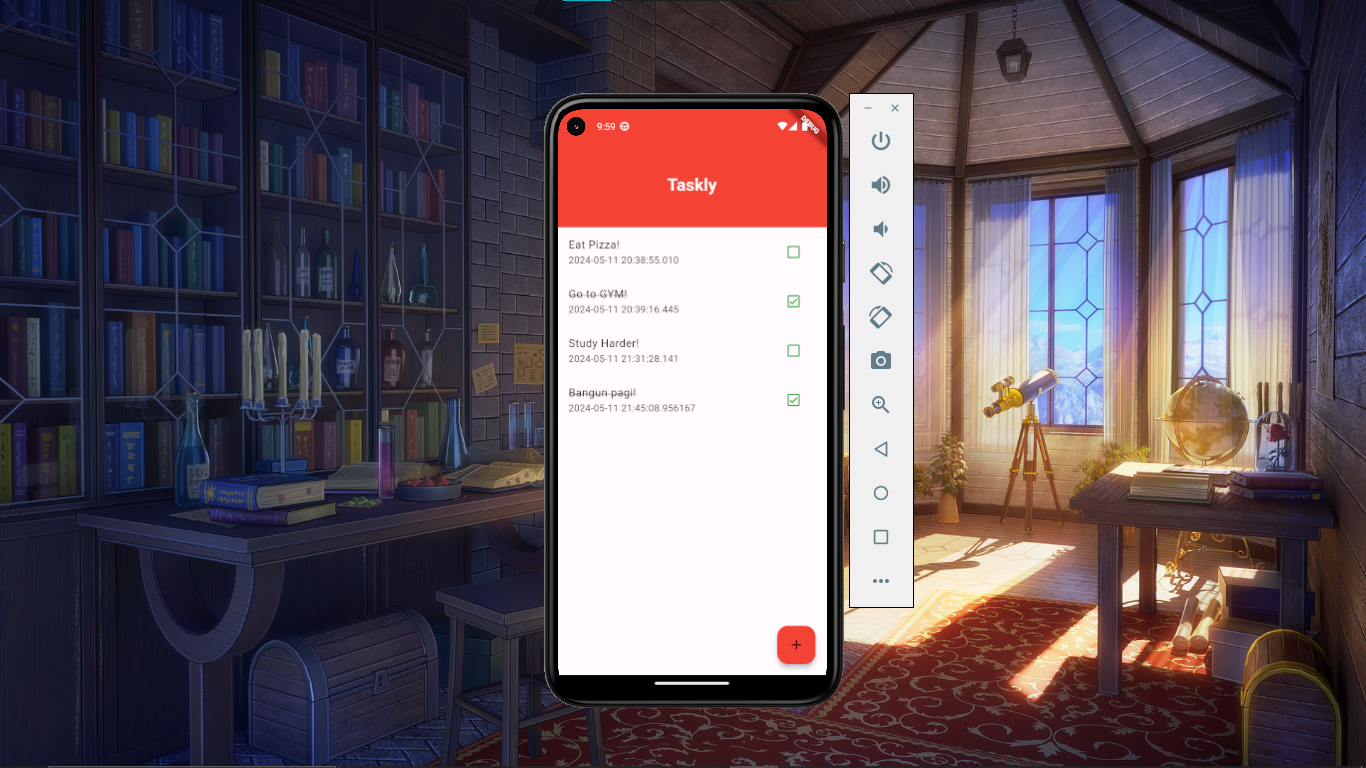
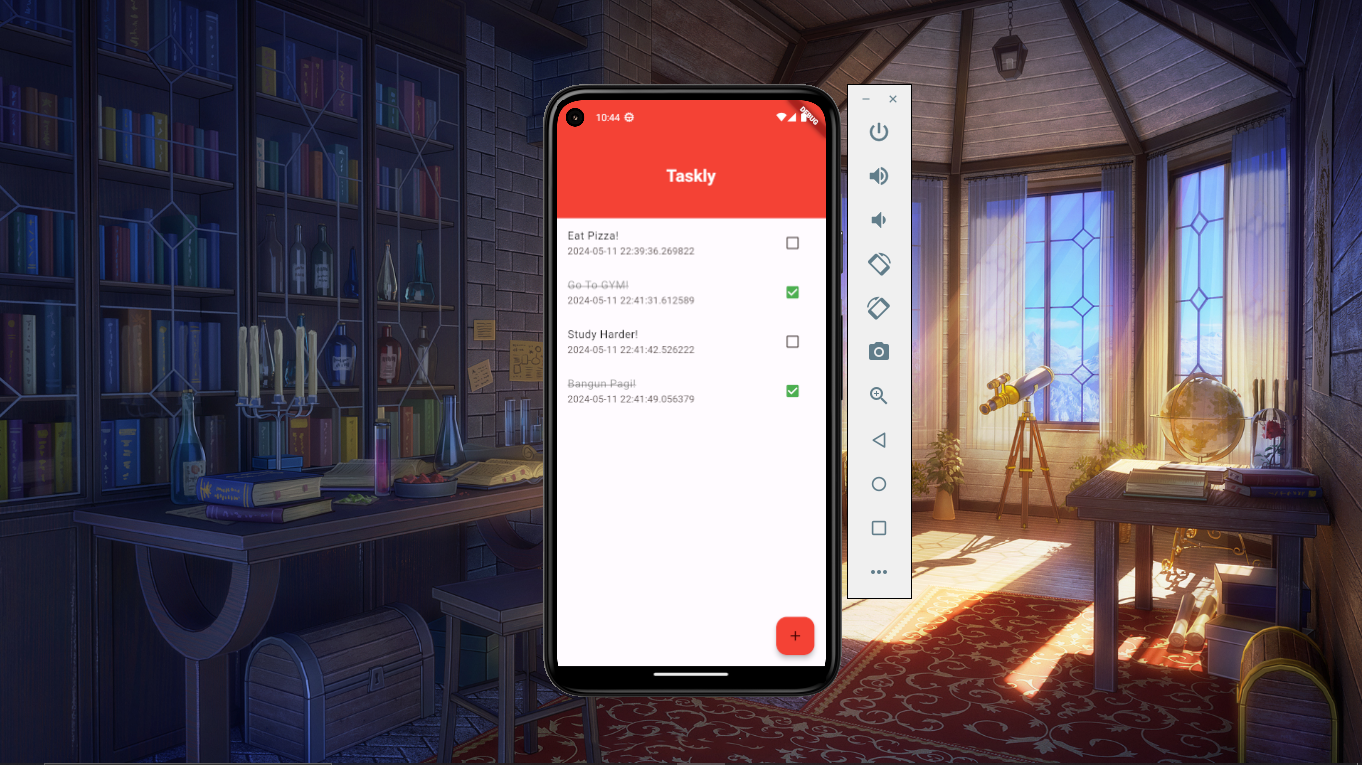
SecondCommit

diff --git a/lib/pages/home_page.dart b/lib/pages/home_page.dart
@@ -53,11 +53,6 @@ class _HomePageState extends State<HomePage> {
   }
 
   Widget _taskList() {
-    //add data to the box with this 3 code bellow!
-    // Task _newTask =
-    //     Task(content: "Go to GYM!", timestamp: DateTime.now(), done: false);
-    // _box?.add(_newTask.toMap());
-
     List tasks = _box!.values.toList();
     return ListView.builder(
       itemCount: tasks.length,
@@ -68,24 +63,26 @@ class _HomePageState extends State<HomePage> {
             task.content,
             style: TextStyle(
               decoration: task.done ? TextDecoration.lineThrough : null,
+              color: task.done ? Colors.grey : Colors.black,
             ),
           ),
           subtitle: Text(
             task.timestamp.toString(),
           ),
-          trailing: Icon(
-              task.done
-                  ? Icons.check_box_outlined
-                  : Icons.check_box_outline_blank_outlined,
-                  color: Colors.green,
-            ),
-          onTap: () {
-            task.done = !task.done;
-            _box!.putAt(_index, task.toMap());
-            setState(() {});
+          trailing: Checkbox(
+            value: task.done,
+            onChanged: (value) {
+              task.done = value!;
+              _box!.putAt(_index, task.toMap());
+              setState(() {});
+            },
+            activeColor: Colors.green,
+          ),
+          onTap: () async {
+            _showEditForm(context, task, _index);
           },
           onLongPress: () {
-            _box!.delete(_index);
+            _box!.deleteAt(_index);
             setState(() {});
           },
         );
@@ -103,31 +100,71 @@ class _HomePageState extends State<HomePage> {
 
   void _displayTaskPopUp() {
     showDialog(
-        context: context,
-        builder: (BuildContext _context) {
-          return AlertDialog(
-            title: const Text("Add New Task"),
-            content: TextField(
-              onSubmitted: (_value) {
-                if (_newTaskContent != null) {
-                  var _task = Task(
-                      content: _newTaskContent!,
-                      timestamp: DateTime.now(),
-                      done: false);
-                  _box?.add(_task.toMap());
-                  setState(() {
-                    _newTaskContent = null;
-                    Navigator.pop(_context);
-                  });
-                }
-              },
-              onChanged: (_value) {
+      context: context,
+      builder: (BuildContext _context) {
+        return AlertDialog(
+          title: const Text("Add New Task"),
+          content: TextField(
+            onSubmitted: (_value) {
+              if (_newTaskContent != null) {
+                var _task = Task(
+                    content: _newTaskContent!,
+                    timestamp: DateTime.now(),
+                    done: false);
+                _box?.add(_task.toMap());
                 setState(() {
-                  _newTaskContent = _value;
+                  _newTaskContent = null;
+                  Navigator.pop(_context);
                 });
+              }
+            },
+            onChanged: (_value) {
+              setState(() {
+                _newTaskContent = _value;
+              });
+            },
+          ),
+        );
+      },
+    );
+  }
+
+  void _showEditForm(BuildContext context, Task task, int index) {
+    TextEditingController _controller =
+        TextEditingController(text: task.content);
+
+    showDialog(
+      context: context,
+      builder: (BuildContext context) {
+        return AlertDialog(
+          title: Text('Edit Task'),
+          content: TextField(
+            controller: _controller,
+            decoration: InputDecoration(labelText: 'Enter new task content'),
+          ),
+          actions: <Widget>[
+            TextButton(
+              onPressed: () {
+                Navigator.of(context)
+                    .pop(); // Tutup dialog tanpa menyimpan perubahan
               },
+              child: Text('Cancel'),
             ),
-          );
-        });
+            ElevatedButton(
+              onPressed: () {
+                String editedContent = _controller.text;
+                // Perbarui data tugas di penyimpanan lokal Hive
+                task.content = editedContent;
+                _box!.putAt(index, task.toMap());
+                setState(() {});
+                Navigator.of(context)
+                    .pop(); // Tutup dialog setelah menyimpan perubahan
+              },
+              child: Text('Save'),
+            ),
+          ],
+        );
+      },
+    );
   }
 }
